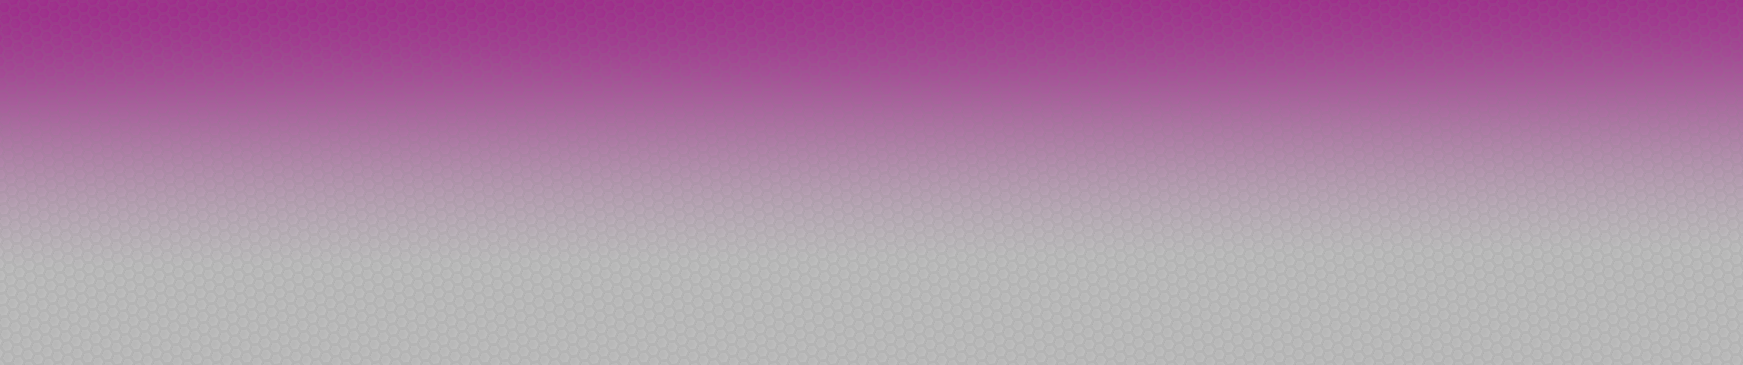
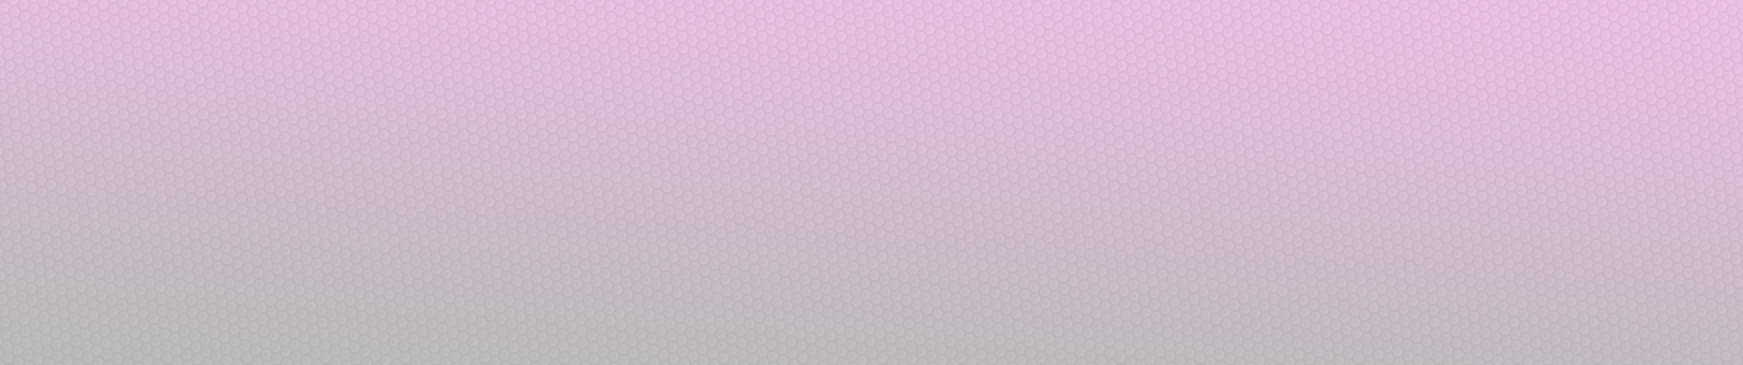
Manje izmene

diff --git a/public/assets/css/custom.css b/public/assets/css/custom.css
@@ -5,7 +5,7 @@ body {
     font-family: Arial, sans-serif;
     margin: 0;
     padding: 0;
-    background: linear-gradient(180deg, white 0%, #A2268D 100%);
+    background: linear-gradient(180deg, white 0%, #fccaf4 100%);
     color: transparent;
     color: black;
     scroll-behavior: smooth; /* Enable smooth scrolling */
@@ -77,7 +77,7 @@ header {
 .banner {
     width: 100%;
     position: relative;
-    color: white;
+    color: black;
     padding: 150px 20px 100px;
     text-align: center;
     margin-top: 142px;

diff --git a/views/home/banner.mvc.php b/views/home/banner.mvc.php
@@ -1,3 +1,3 @@
 <div class="banner">
-        <h2>Nova forma računovodstva</h2>
+        <h2><span class="logo-style nova">Nova</span></b> <span class="logo-style forma">Forma</span></b> računovodstva</h2>
     </div>
